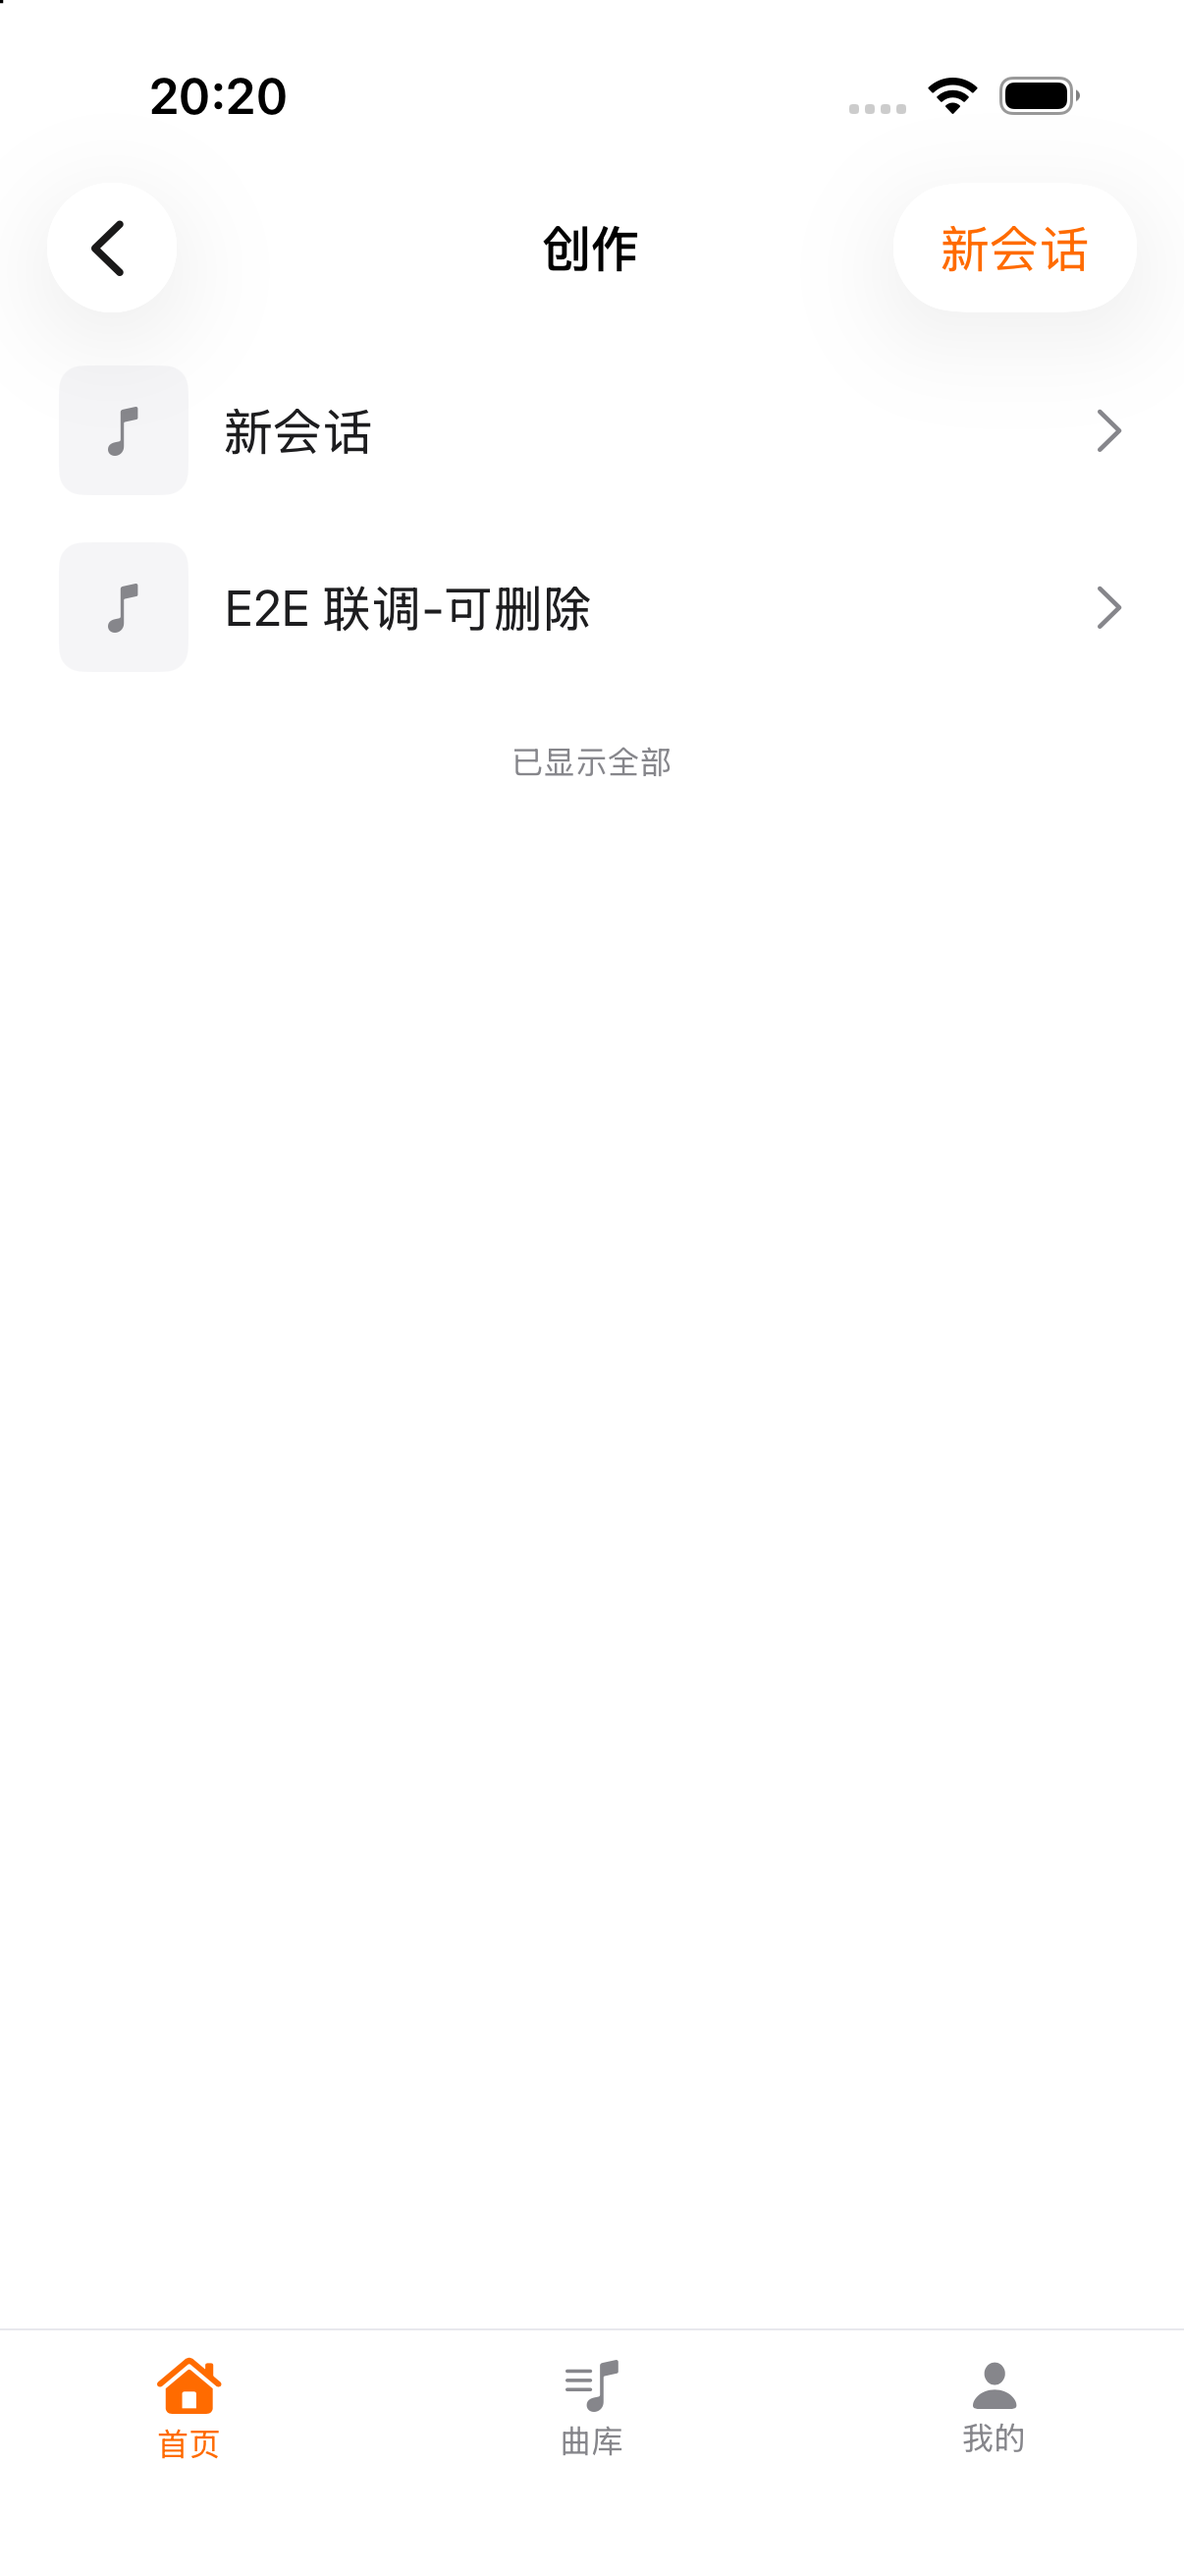
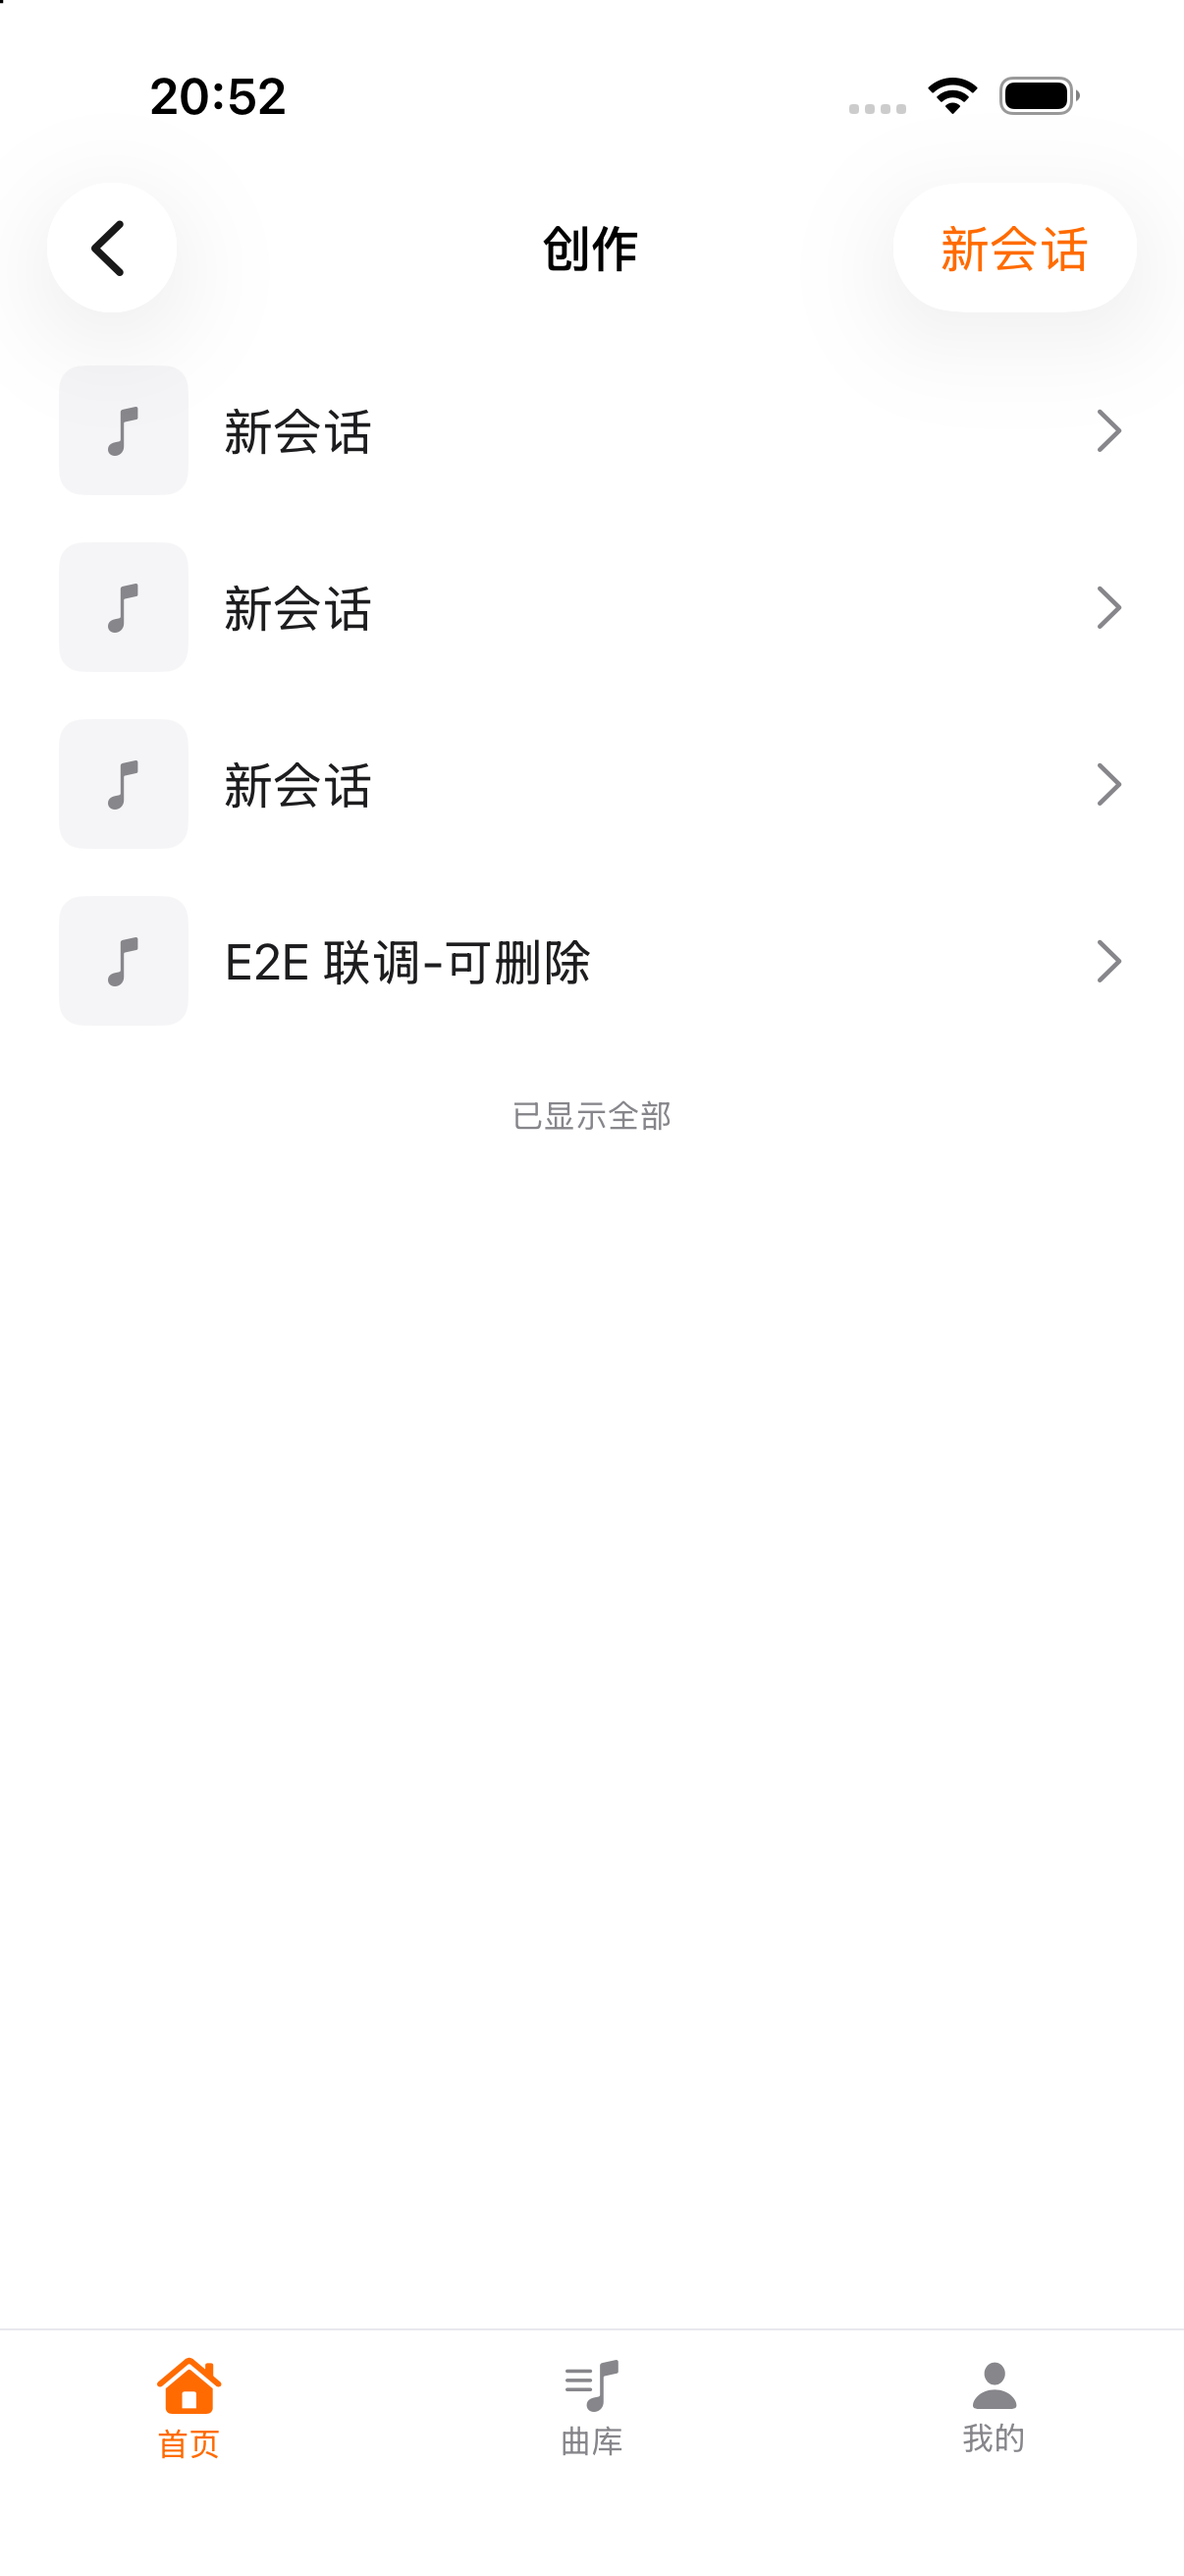
feat(m2): 真实会话的 08/09 截图落档 + 登记 NEEDS-26（SSE 事件字典比契约多七个）
`auth-20260924/07-session-detail-real.png` 是 M2 的核心效果：真实用户气泡 + 计划卡
「向光而行 / 待确认 / 摘要 / 查看提示词 / weirdness 0.5 · styleWeight 0.5 /
预计消耗 100 co 余额 19,615 / 开始制作 · 修改要求」，全部来自线上接口与真实账号。
走的是 `GET /plans` 轮询降级路径；同一条 SSE 实测到的事件名比契约多七个
（`reasoning_summary / credits / skill_started / skill_completed / repair_started /
verification_completed / run_completed`），iOS 现在对未知事件是**刻意忽略**，
但"未知即忽略"不能长期兜底 ⇒ 登记 NEEDS-26 要后端把事件字典与语义写进契约。

**双 Demo 候选与试听仍未拍**：那要先真的点「开始制作」（扣 100 co 的写操作）。
这是唯一一处我停在用户点头之前的开发面 —— 不是能力没做，是不替用户花他的额度。

diff --git a/docs/NEEDS.md b/docs/NEEDS.md
@@ -31,6 +31,7 @@
 | 23 | STUDIO-SESSION-SCHEMA | **创作会话的条目 schema 未文档化**：`docs/api-contracts.md` §4 只给了 `GET /api/find-my-song/sessions` / `…/:id` 两个路径与「详情含 `messages[] / generationJobs[]`」这一句，**没有任何字段清单**；`POST …/sessions` 的响应信封也没写（客户端目前容忍 `{session:{id}}` 与 `{id}` 两种，列表容忍 `{sessions[]}` / `{items[]}` / `{data[]}` / 裸数组四种，全接不上即报错而不是当空列表）。另需明确：消息条目里哪个键是正文（`text` 还是 `content`）、`role` 的取值集合、以及是否存在分页参数（客户端**不发明** `?limit=`/`?before=`）。 | M2（非阻塞：08/09/12c 已按「只渲染取得到的字段」实现） | 给出会话/消息条目的字段清单与响应信封（含建会话响应），并说明有无分页 |
 | 24 | CANDIDATE-SHARE-TARGET | **生成候选没有可公开访问的分享目标**。09 §3-H 的候选操作条列了「♡ 收藏 / ↓ 下载 / ⤴ 分享」三件，但 api-contracts §4 全表（sessions / plans / generation-jobs / agent / retention）里**既没有**「候选公开页」也**没有**任何 share/短链端点。可分享的两处常量链接（16 的 `covalink.cn/artists/:id`、02 与 07 的 `covalink.cn/tracks/:id`）承载的都是**公开曲库资源**；生成候选不是曲库曲目（09 §1 自己写着「若候选已被后端收录为库曲，v1.0 一般不可」）。剩下唯一可用的地址是 `audioUrl` / `audioDownloadUrl` —— 那是 Bearer 授权地址，交出去等于把凭证送出设备（硬边界 3 / D7 / TD-23 三面禁止）。 | M2（**客户端已按「不渲染分享钮」实现**，不放坏路径） | 二选一：① 提供候选的公开只读页（或其曲目化后的 `tracks/:id`）并写明 URL 形状与是否需要登录；② 提供 `POST /api/media/references/:id/share` 之类的服务端签发的短链/公开令牌端点。若产品口径是「生成物永不公开分享」，请明确写成一句话，客户端据此把 09 §3-H 的分享项从规格里划掉 |
 | 25 | DELIVERY-PROGRESS-FIELD | **补充制作没有进度数值，也没有交付完成事实**：09 §3-I 要「左文案 + 右百分比」，并以 `fullMediaReady` 作为收起条件，但 `OneStepPlanCardDto`（12 态）与 `GenerationJob`（6 态 + `costCredits` + `metadata`）里**都没有** `progress` / `percent` / `deliveryProgress` / `fullMediaReady` 任何一类字段。客户端已降级为**里程碑而非百分比**：条只在 `delivery_preparing` / `rehydrating` 出现，填充比 = 契约前进状态序列里的位置，分母额外含那一格**观察不到的完成态** ⇒ 窗口内永不填满；右列显示 `7/9` 这类阶段计数而**不是一个猜出来的百分数**；「完整音频」徽标**不渲染**（没有完成事实可依据）。 | M2（非阻塞：已按降级形态实现，不显示假数字） | 给一个有据可依的进度数值（0–1 或 `done`/`total`）与一个明确的**完成布尔**（`fullMediaReady` 或等价字段，落在计划卡或候选投影里）；并说明取消/失败时该数值如何解释 |
+| 26 | SSE-EVENT-VOCAB | **`POST /api/studio/agent` 的事件名比契约多**。契约 §4 只列 `thinking / text / plan_card / error / done / run_*`；2026-09-24 用真实账号实测一条完整跑动，另见到 `reasoning_summary`、`credits`、`skill_started`、`skill_completed`、`repair_started`、`verification_completed`、`run_completed`。iOS 当前对未知事件**刻意忽略**（不猜语义、也不当错误上报），但这些名字明显带信息（`credits` 像余额、`verification_completed` 像交付事实、`repair_started` 像用户可感知的等待）。需后端把**事件字典与各字段语义**文档化 | M2 | 事件字典写进 `docs/api-contracts.md` §4；iOS 对每个新事件给出显式处置（使用，或在注释里写明"知道它、选择忽略"的理由），不允许靠"未知即忽略"长期兜底 |
 
 ## 已确认可用（无需等待，可并行开发）
 
